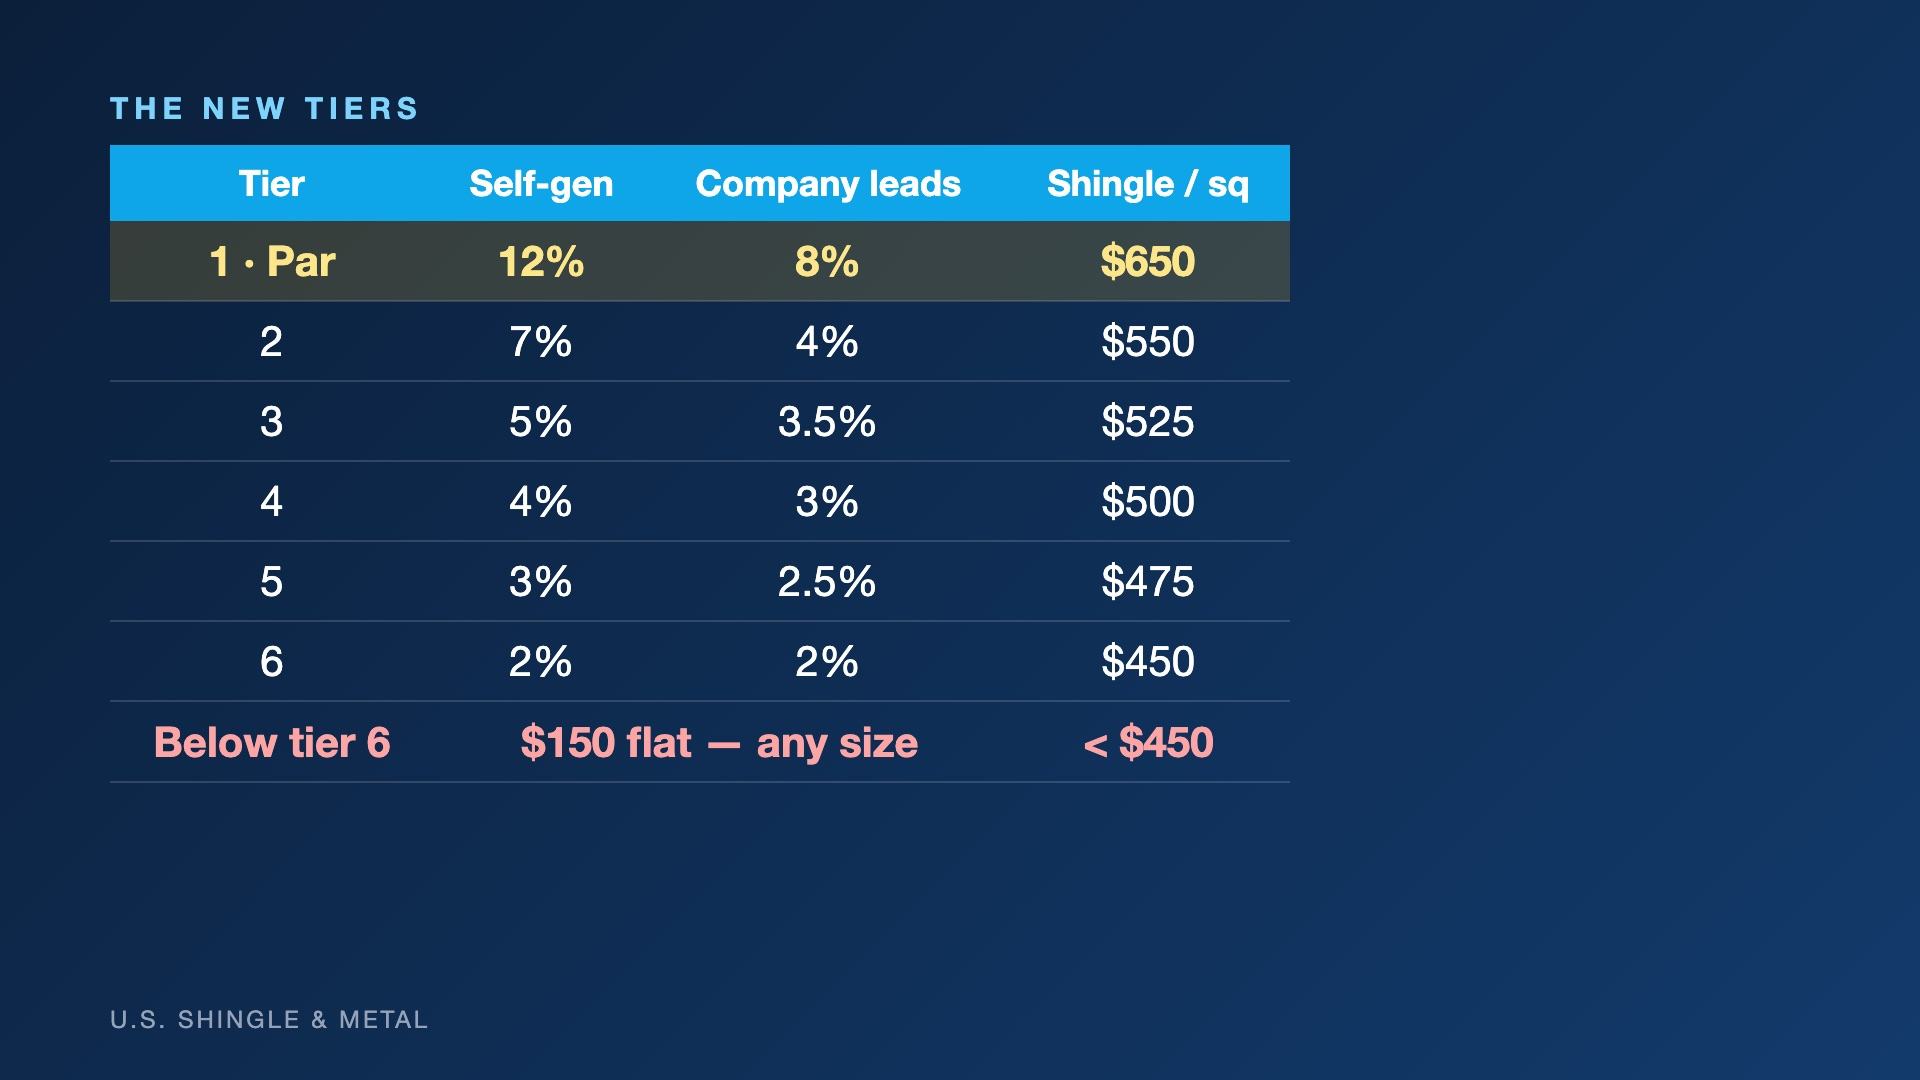
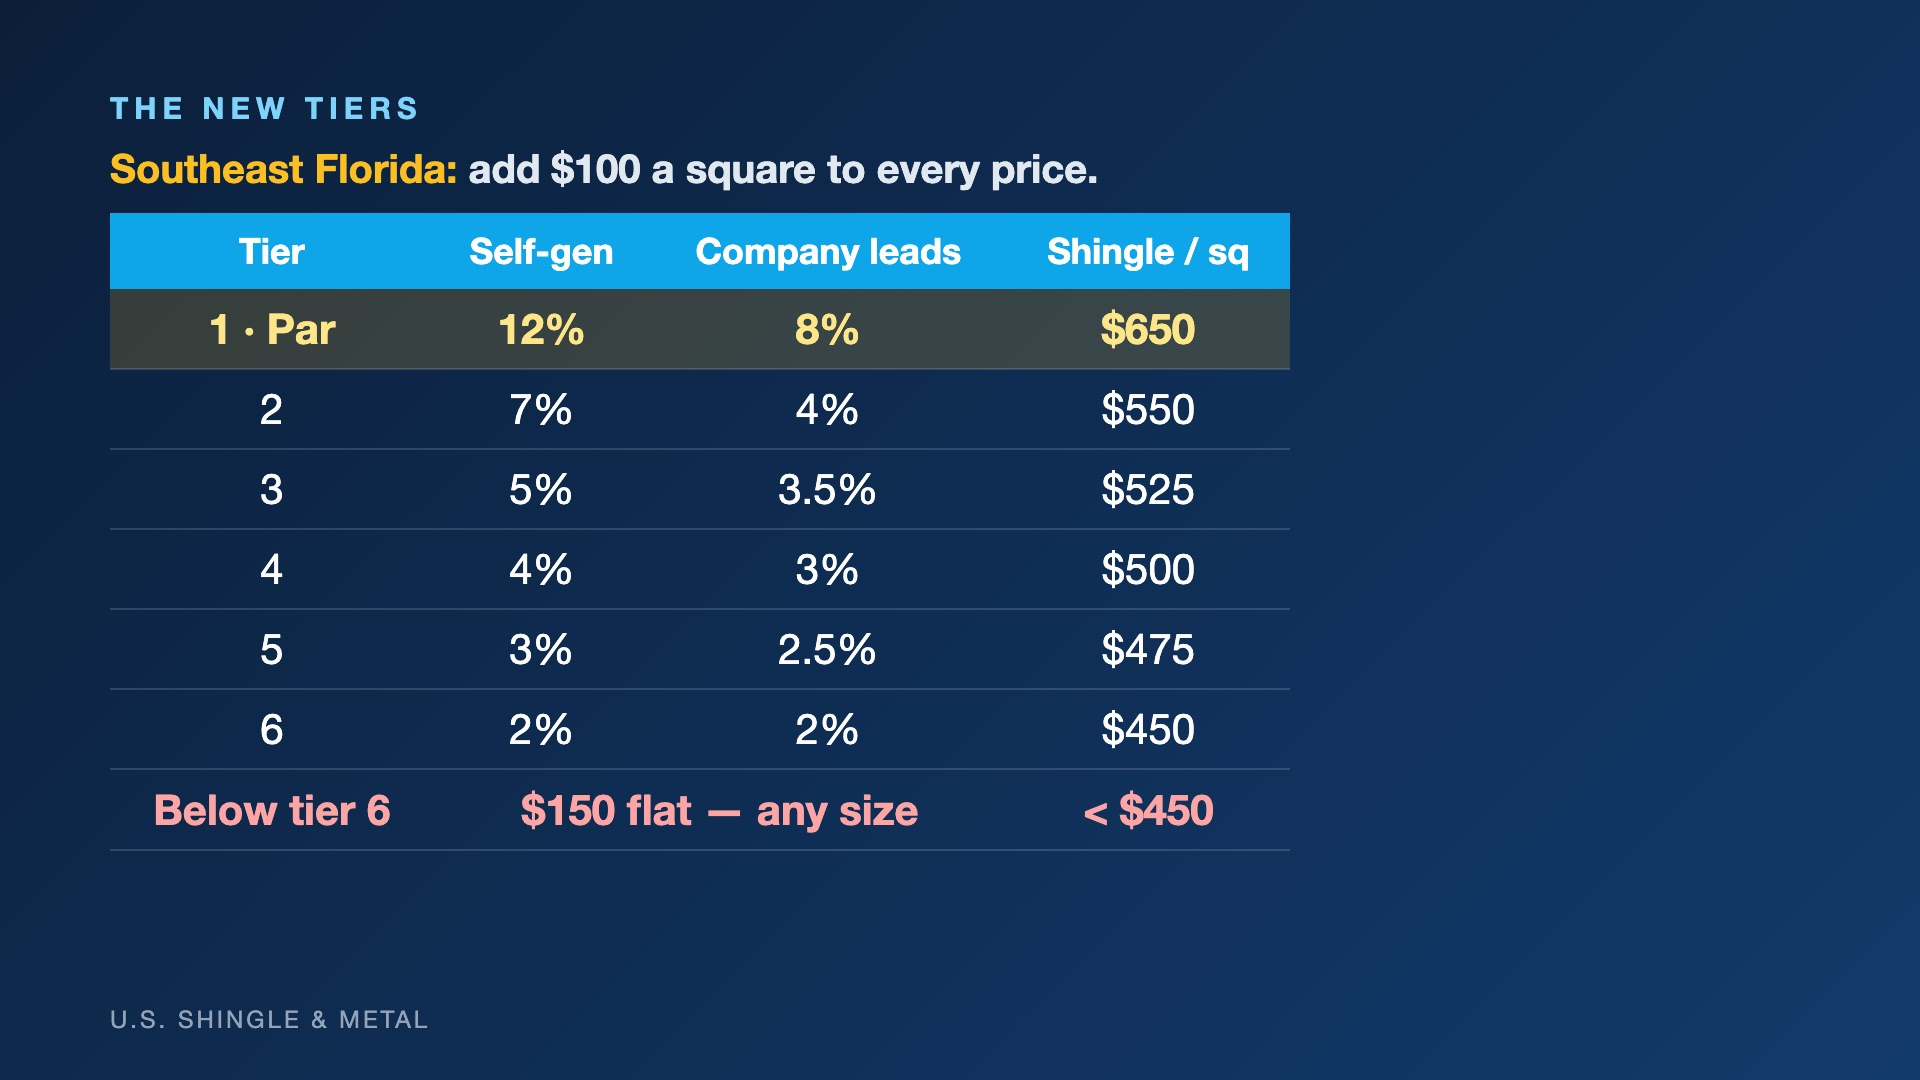
TMS raise deck: tier slide — Southeast Florida adds $100/sq to every price

Changed region(s): [[0.0312, 0.1222, 0.6875, 0.7944]]

diff --git a/public/raise/index.html b/public/raise/index.html
@@ -21,7 +21,7 @@
     <section data-background-image="img/s05b.jpg" data-background-size="contain" data-background-color="#0b1f3a"><aside class="notes">On an average 28-square roof, +$100 a square is $2,800 more. Financed 10 years at 9.99% that&#x27;s $36.99 a month — about $1.22 a day, about $8.50 a week. A coffee a week. Nobody makes or breaks the decision on a dollar a day. Don&#x27;t let the numbers intimidate you — if you&#x27;re not willing to walk away, you&#x27;ll never get the big sales (Tom Hopkins).</aside></section>
     <section data-background-image="img/s06.jpg" data-background-size="contain" data-background-color="#0b1f3a"><aside class="notes">&#x27;It&#x27;s old, it&#x27;s time-tested, I didn&#x27;t make it up.&#x27; On a $28-square roof, $200 a square is $5,600 more — feels like a lot to you, not to the homeowner. Even if you lost one out of ten, you&#x27;d still make more.</aside></section>
     <section data-background-image="img/s08.jpg" data-background-size="contain" data-background-color="#0b1f3a"><aside class="notes">Nobody&#x27;s using the in-house shingle program the way it was designed, so it&#x27;s gone. Adders: $30 steep, $30 two-story, $20 per layer added to the contract. (24-gauge is on the metal pricing slide.)</aside></section>
-    <section data-background-image="img/s07.jpg" data-background-size="contain" data-background-color="#0b1f3a"><aside class="notes">Miss par and the first drop is big: 12% to 7% self-gen, 8% to 4% company leads. Below tier 6 is a $150 mini, no matter how many squares (that&#x27;s mostly shingle; it almost never happens on metal). Odd jobs — like a 500-square townhome complex — we sit down and talk about. CHECK every number on this slide against the spreadsheet.</aside></section>
+    <section data-background-image="img/s07.jpg" data-background-size="contain" data-background-color="#0b1f3a"><aside class="notes">Miss par and the first drop is big: 12% to 7% self-gen, 8% to 4% company leads. Below tier 6 is a $150 mini, no matter how many squares (that&#x27;s mostly shingle; it almost never happens on metal). Odd jobs — like a 500-square townhome complex — we sit down and talk about. Southeast Florida adds $100 a square to every price on this slide.</aside></section>
     <section data-background-image="img/s09.jpg" data-background-size="contain" data-background-color="#0b1f3a"><aside class="notes">Permits run $275 to $1,200 depending on the county, and crews now charge $350–$700 for dump — we&#x27;ve been eating it. So every contract gets a flat $500 permit-fee line. It&#x27;s called a permit fee so the homeowner sees it isn&#x27;t going to us. It starts at $500 on the close sheet, so reps never present it separately — but if you discount around it, you&#x27;ve dropped below par and it costs you.</aside></section>
     <section data-background-image="img/s10.jpg" data-background-size="contain" data-background-color="#0b1f3a"><aside class="notes">Start high, end where you need to be. If you start at the bottom and drop with no authority, you lose all credibility (like the call we listened to — she started low and dropped). Call in before you move.</aside></section>
     <section data-background-image="img/s11.jpg" data-background-size="contain" data-background-color="#0b1f3a"><aside class="notes">Outside sales managers have these conversations over the next few days: here&#x27;s the new price point, here&#x27;s what we hit them with first. Close on the raise.</aside></section>
